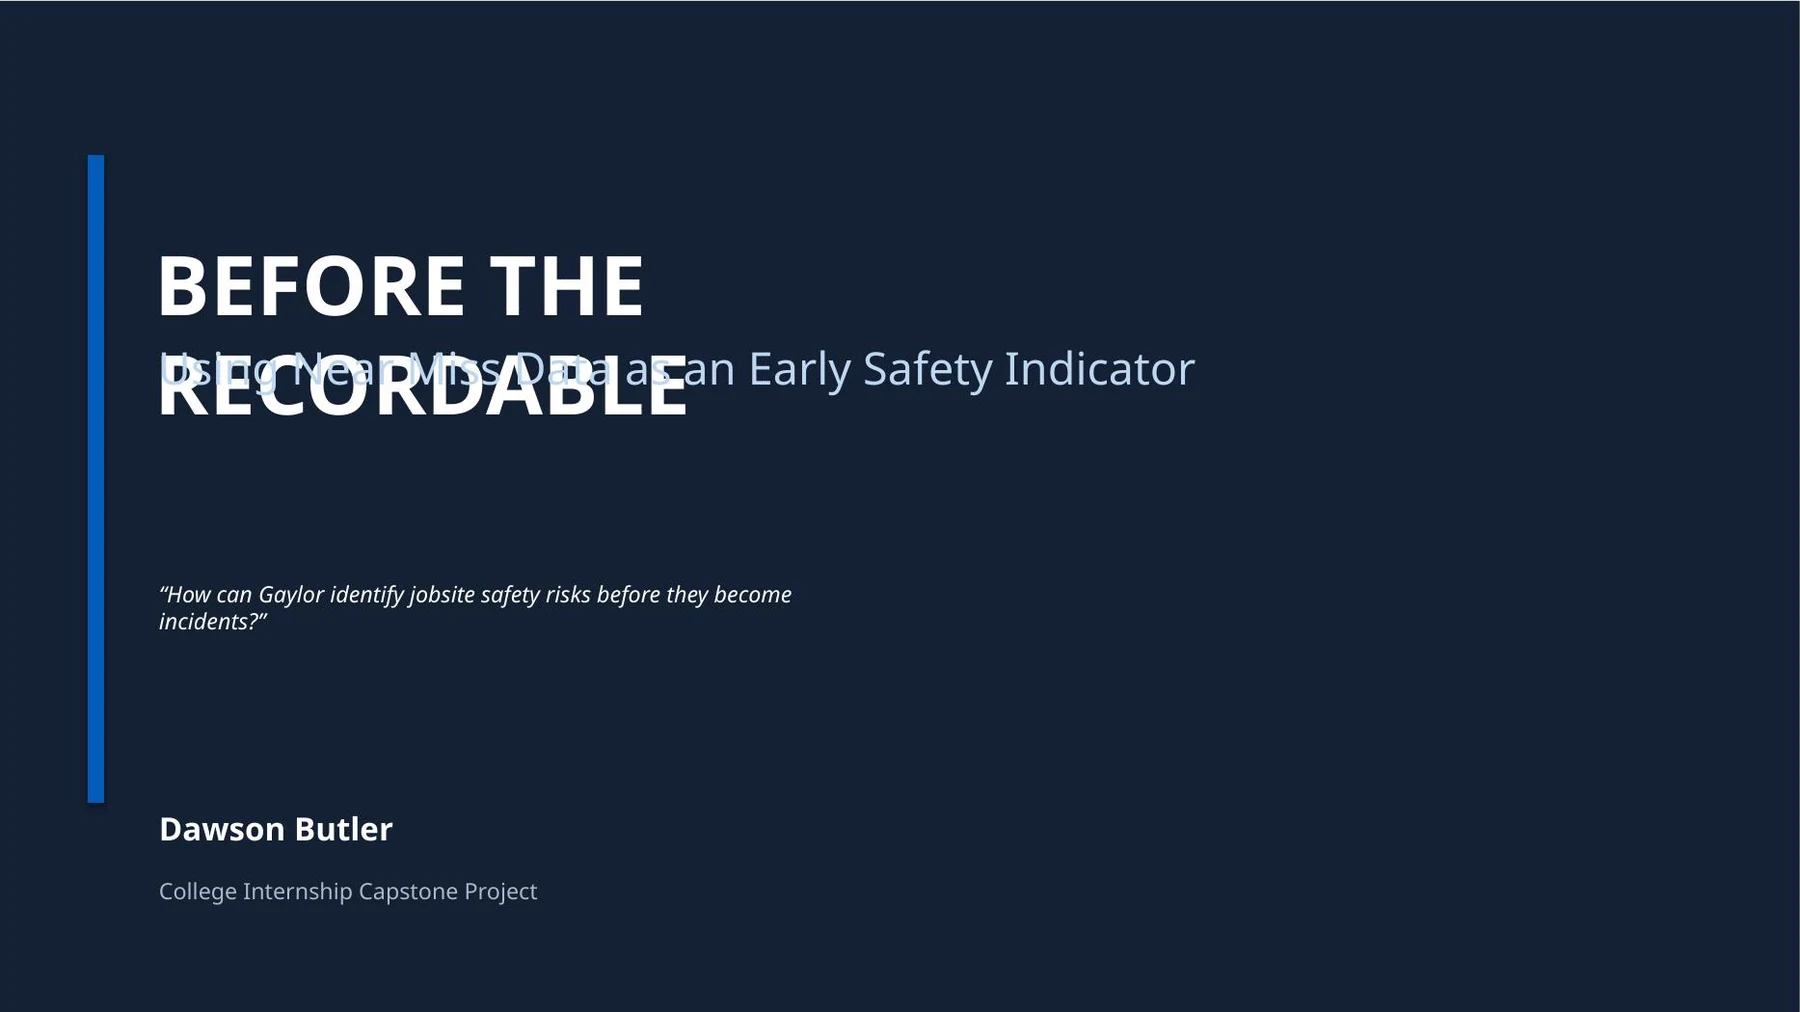
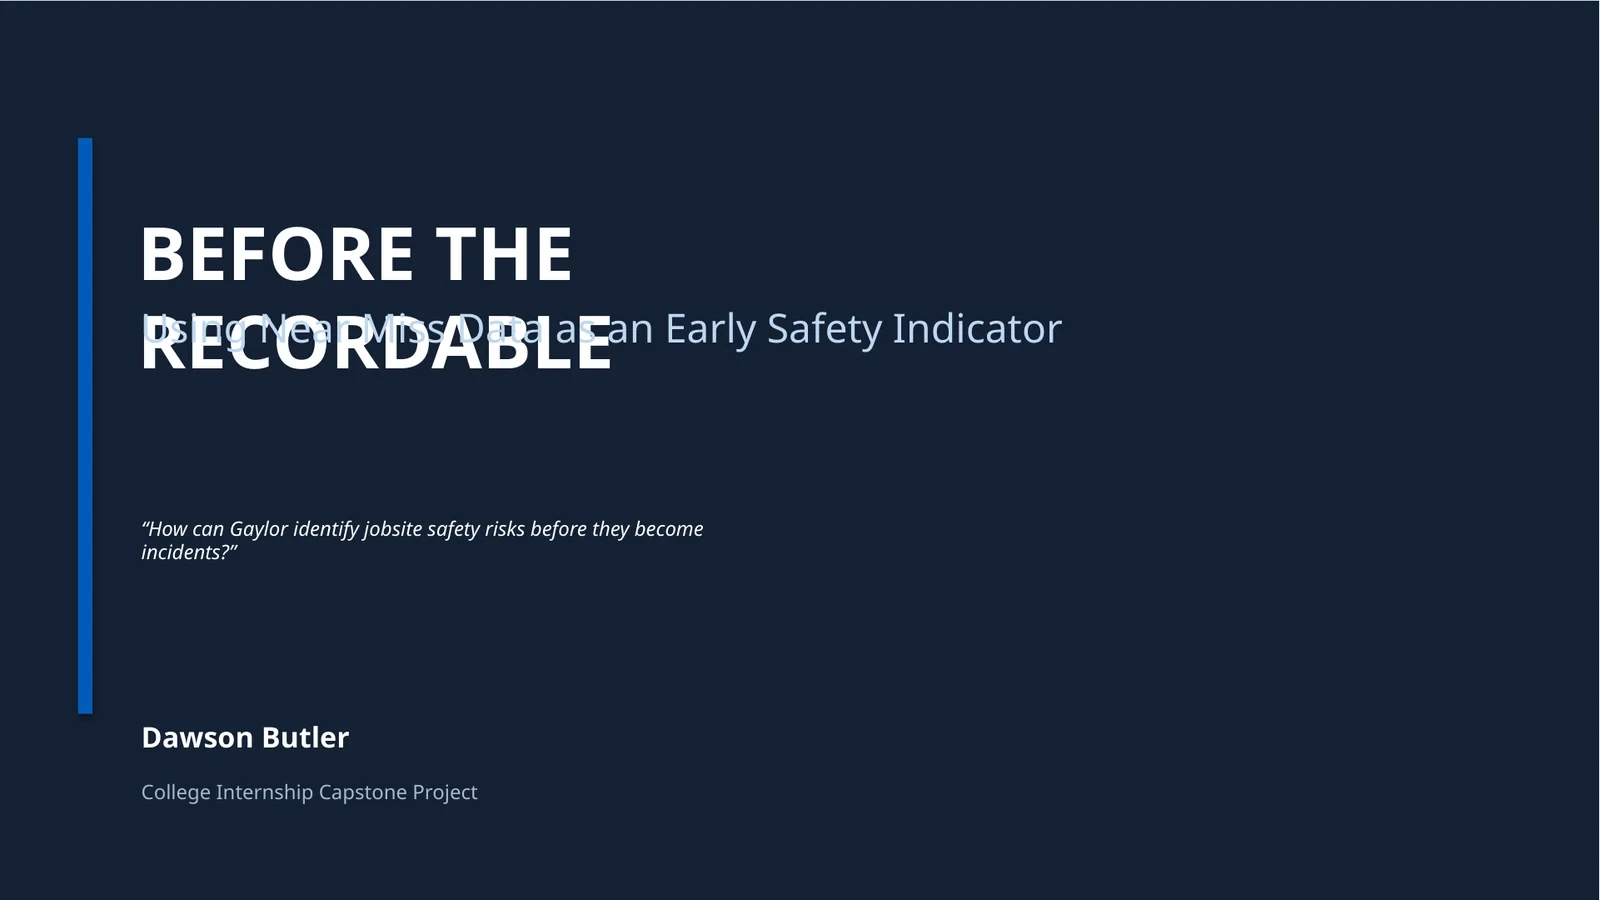
Fix project 6

diff --git a/assets/projects/assistive-robot.html b/assets/projects/assistive-robot.html
@@ -1,0 +1,6 @@
+<!doctype html><html lang="en" data-theme="dark"><head><meta charset="utf-8"><meta name="viewport" content="width=device-width,initial-scale=1"><meta name="description" content="A six-month team project combining spatial detection, audible warnings, and separation alerts to support safer walking for a visually impaired user."><meta name="theme-color" content="#07121f"><meta property="og:title" content="Assistive Navigation Robot | Dawson Butler"><meta property="og:description" content="A six-month team project combining spatial detection, audible warnings, and separation alerts to support safer walking for a visually impaired user."><meta property="og:image" content="../assets/images/social-preview.webp"><title>Assistive Navigation Robot | Dawson Butler</title><link rel="icon" href="../favicon.svg" type="image/svg+xml"><link rel="stylesheet" href="../styles.css"></head><body><a class="skip-link" href="#main">Skip to content</a><header class="site-header"><div class="nav-wrap"><a class="brand" href="../index.html"><span class="brand-mark">DB</span><span>Dawson Butler</span></a><nav class="nav-links" aria-label="Primary"><a href="../index.html#about">About</a><a href="../index.html#projects">Projects</a><a href="../index.html#experience">Experience</a><a href="../index.html#skills">Skills</a><a href="../index.html#contact">Contact</a><a href="../assets/documents/Dawson Butler Resume.pdf" target="_blank">Resume</a></nav><div class="nav-actions"><button class="icon-btn" data-theme-toggle aria-label="Toggle color theme">☀</button><button class="menu-btn" data-menu aria-label="Open navigation" aria-expanded="false">☰</button></div></div></header><main id="main"><section class="project-hero"><div class="project-hero-copy reveal"><a class="breadcrumb" href="../index.html#projects">← All projects</a><div class="kicker">03 • ROBOTICS • MATLAB • ASSISTIVE DESIGN</div><h1>Assistive Navigation Robot</h1><p>A six-month team project combining spatial detection, audible warnings, and separation alerts to support safer walking for a visually impaired user.</p><div class="project-meta"><div><span>CONTEXT</span><strong>University Coding Course</strong></div><div><span>TIMELINE</span><strong>Six-month design cycle</strong></div><div><span>COLLABORATION</span><strong>Team of five</strong></div></div></div><div class="project-hero-media reveal"><img src="../assets/images/assistive-robot.webp" alt="Tracked classroom robot with sensors, microcontrollers, servos, wiring, and 3D printed components."></div></section>
+<section class="case-intro section"><div class="case-column reveal"><div class="eyebrow">THE CHALLENGE</div><h2>Create an affordable assistive device that could help a visually impaired person recognize nearby obstacles and alert a trusted contact if the user became separated from the robot. The project required our team to integrate code, sensors, electronics, mechanical assembly, and a simple user interaction into one working prototype.</h2></div><div class="case-column reveal"><div class="eyebrow">MY ROLE</div><p>I worked on a five-person team through a full six-month design and build cycle. My responsibilities included assembly, component integration, MATLAB development, troubleshooting, test planning, and helping translate the accessibility concept into a functioning prototype.</p><div class="tool-pills"><span>MATLAB</span><span>Sensor integration</span><span>COTS hardware</span><span>Mechanical assembly</span><span>Rapid prototyping</span></div></div></section>
+<section class="process-section section-wide"><div class="section-heading reveal"><div class="eyebrow">ENGINEERING PROCESS</div><h2>How the work moved from problem to functioning result.</h2></div><div class="process-list"><div class="process-step"><span>01</span><div><h3>Define the user need</h3><p>We chose an assistive walking concept rather than a general demonstration robot, which gave every design decision a clear purpose.</p></div></div><div class="process-step"><span>02</span><div><h3>Integrate sensing and feedback</h3><p>The robot used spatial detection to identify nearby obstacles and produce an audible warning as the user approached them.</p></div></div><div class="process-step"><span>03</span><div><h3>Add separation monitoring</h3><p>A tether or “leash” provided another safety layer. If the connection pulled away, the system initiated a message to a designated contact.</p></div></div><div class="process-step"><span>04</span><div><h3>Test and refine</h3><p>We repeatedly adjusted code, wiring, sensor behavior, and the physical layout until the hardware and software behaved as one system.</p></div></div></div></section>
+<section class="results-section section"><div class="result-card reveal"><div class="eyebrow">OUTCOME</div><h2>The prototype completed the required functions, and our team earned an A on the final project. More importantly, it showed me how mechanical systems, sensors, and software must be designed together around the person using them.</h2></div><div class="learning-card reveal"><div class="eyebrow">WHAT I LEARNED</div><p>This was my steepest coding learning curve. I did not begin the project as a confident programmer, but six months of MATLAB development and hardware troubleshooting made me much more comfortable learning unfamiliar technical tools and contributing across disciplines.</p></div></section>
+<section class="gallery-section section-wide"><div class="section-heading reveal"><div class="eyebrow">PROJECT EVIDENCE</div><h2>Hardware, models, fabrication, and system views.</h2></div><div class="project-gallery"><figure class="gallery-item"><img src="../assets/images/assistive-robot.webp" alt="Final prototype showing the compact tracked platform, control electronics, sensors, wiring, and 3D printed mounting components." loading="lazy"><figcaption>Final prototype showing the compact tracked platform, control electronics, sensors, wiring, and 3D printed mounting components.</figcaption></figure></div></section>
+<section class="next-project section"><a href="lavo-prototype.html"><span>NEXT CASE STUDY</span><strong>Continue exploring ↗</strong></a></section></main><footer><span>© <span data-year></span> Dawson Butler</span><span>Mechanical Engineering • Robotics • VDC • Manufacturing</span></footer><script src="../script.js"></script></body></html>

diff --git a/assets/projects/lavo-prototype.html b/assets/projects/lavo-prototype.html
@@ -1,0 +1,6 @@
+<!doctype html><html lang="en" data-theme="dark"><head><meta charset="utf-8"><meta name="viewport" content="width=device-width,initial-scale=1"><meta name="description" content="Hands-on research, testing, and prototype iteration on a pressure-washing robot that became my introduction to engineering product development."><meta name="theme-color" content="#07121f"><meta property="og:title" content="Lavo Bot Prototype Development | Dawson Butler"><meta property="og:description" content="Hands-on research, testing, and prototype iteration on a pressure-washing robot that became my introduction to engineering product development."><meta property="og:image" content="../assets/images/social-preview.webp"><title>Lavo Bot Prototype Development | Dawson Butler</title><link rel="icon" href="../favicon.svg" type="image/svg+xml"><link rel="stylesheet" href="../styles.css"></head><body><a class="skip-link" href="#main">Skip to content</a><header class="site-header"><div class="nav-wrap"><a class="brand" href="../index.html"><span class="brand-mark">DB</span><span>Dawson Butler</span></a><nav class="nav-links" aria-label="Primary"><a href="../index.html#about">About</a><a href="../index.html#projects">Projects</a><a href="../index.html#experience">Experience</a><a href="../index.html#skills">Skills</a><a href="../index.html#contact">Contact</a><a href="../assets/documents/Dawson Butler Resume.pdf" target="_blank">Resume</a></nav><div class="nav-actions"><button class="icon-btn" data-theme-toggle aria-label="Toggle color theme">☀</button><button class="menu-btn" data-menu aria-label="Open navigation" aria-expanded="false">☰</button></div></div></header><main id="main"><section class="project-hero"><div class="project-hero-copy reveal"><a class="breadcrumb" href="../index.html#projects">← All projects</a><div class="kicker">04 • PROTOTYPING • TESTING • PRODUCT DEVELOPMENT</div><h1>Lavo Bot Prototype Development</h1><p>Hands-on research, testing, and prototype iteration on a pressure-washing robot that became my introduction to engineering product development.</p><div class="project-meta"><div><span>CONTEXT</span><strong>LUCID Bots</strong></div><div><span>TIMELINE</span><strong>Early engineering experience</strong></div><div><span>COLLABORATION</span><strong>Direct collaboration with company leadership and engineers</strong></div></div></div><div class="project-hero-media reveal"><img src="../assets/images/lavo-prototype.webp" alt="Opened Lavo Bot prototype showing surface cleaner, frame, motors, wiring, controls, and mechanical components."></div></section>
+<section class="case-intro section"><div class="case-column reveal"><div class="eyebrow">THE CHALLENGE</div><h2>Help turn an ambitious pressure-washing robot concept into a more capable, testable product through hands-on prototype work, research, and repeated mechanical and system-level iteration.</h2></div><div class="case-column reveal"><div class="eyebrow">MY ROLE</div><p>I supported testing, assembly, troubleshooting, research, and design exploration while working closely with the CEO and engineering team on a high-priority prototype. Because the project was personally important to company leadership, I was fortunate to see the intensity and persistence required to develop a product from an early idea.</p><div class="tool-pills"><span>Prototype assembly</span><span>Mechanical testing</span><span>Research and design</span><span>Troubleshooting</span><span>Electromechanical systems</span></div><div class="source-note"><span>PRODUCT REFERENCE</span><a href="https://lucidbots.com/lavo" target="_blank" rel="noopener">Official product page ↗</a></div></div></section>
+<section class="process-section section-wide"><div class="section-heading reveal"><div class="eyebrow">ENGINEERING PROCESS</div><h2>How the work moved from problem to functioning result.</h2></div><div class="process-list"><div class="process-step"><span>01</span><div><h3>Understand the system</h3><p>Opening the machine and tracing its mechanisms, wiring, drive components, cleaning hardware, and controls taught me to think in complete systems.</p></div></div><div class="process-step"><span>02</span><div><h3>Build and test</h3><p>I participated in hands-on assembly and testing rather than observing from the sidelines.</p></div></div><div class="process-step"><span>03</span><div><h3>Research alternatives</h3><p>We considered component choices, layouts, operating behavior, maintenance, and practical user needs while the concept evolved.</p></div></div><div class="process-step"><span>04</span><div><h3>Iterate from evidence</h3><p>Prototype failures and test results were treated as information that guided the next change.</p></div></div></div></section>
+<section class="results-section section"><div class="result-card reveal"><div class="eyebrow">OUTCOME</div><h2>The Lavo Bot project was my introduction to real engineering development and the experience that got me hooked. It showed me that engineering is not one perfect idea—it is a cycle of building, testing, learning, and improving.</h2></div><div class="learning-card reveal"><div class="eyebrow">WHAT I LEARNED</div><p>Working close to a passionate product leader showed me how much ownership matters. The best prototypes improve quickly when the team is willing to inspect failures honestly, change direction, and keep testing.</p></div></section>
+<section class="gallery-section section-wide"><div class="section-heading reveal"><div class="eyebrow">PROJECT EVIDENCE</div><h2>Hardware, models, fabrication, and system views.</h2></div><div class="project-gallery"><figure class="gallery-item"><img src="../assets/images/lavo-prototype.webp" alt="Opened prototype showing the large cleaning assembly, frame, wiring, drive hardware, and controls used during development work." loading="lazy"><figcaption>Opened prototype showing the large cleaning assembly, frame, wiring, drive hardware, and controls used during development work.</figcaption></figure></div></section>
+<section class="next-project section"><a href="trading-system.html"><span>NEXT CASE STUDY</span><strong>Continue exploring ↗</strong></a></section></main><footer><span>© <span data-year></span> Dawson Butler</span><span>Mechanical Engineering • Robotics • VDC • Manufacturing</span></footer><script src="../script.js"></script></body></html>

diff --git a/assets/projects/modular-skid.html b/assets/projects/modular-skid.html
@@ -1,0 +1,6 @@
+<!doctype html><html lang="en" data-theme="dark"><head><meta charset="utf-8"><meta name="viewport" content="width=device-width,initial-scale=1"><meta name="description" content="A fast Revit ramp-up on a multi-hundred-million-dollar data center project, carrying modular skid work from submittal and modeling through fabrication and a field lift."><meta name="theme-color" content="#07121f"><meta property="og:title" content="Modular Electrical Skid: Model to Field | Dawson Butler"><meta property="og:description" content="A fast Revit ramp-up on a multi-hundred-million-dollar data center project, carrying modular skid work from submittal and modeling through fabrication and a field lift."><meta property="og:image" content="../assets/images/social-preview.webp"><title>Modular Electrical Skid: Model to Field | Dawson Butler</title><link rel="icon" href="../favicon.svg" type="image/svg+xml"><link rel="stylesheet" href="../styles.css"></head><body><a class="skip-link" href="#main">Skip to content</a><header class="site-header"><div class="nav-wrap"><a class="brand" href="../index.html"><span class="brand-mark">DB</span><span>Dawson Butler</span></a><nav class="nav-links" aria-label="Primary"><a href="../index.html#about">About</a><a href="../index.html#projects">Projects</a><a href="../index.html#experience">Experience</a><a href="../index.html#skills">Skills</a><a href="../index.html#contact">Contact</a><a href="../assets/documents/Dawson Butler Resume.pdf" target="_blank">Resume</a></nav><div class="nav-actions"><button class="icon-btn" data-theme-toggle aria-label="Toggle color theme">☀</button><button class="menu-btn" data-menu aria-label="Open navigation" aria-expanded="false">☰</button></div></div></header><main id="main"><section class="project-hero"><div class="project-hero-copy reveal"><a class="breadcrumb" href="../index.html#projects">← All projects</a><div class="kicker">02 • REVIT • VDC • CONSTRUCTABILITY • FIELD ENGINEERING</div><h1>Modular Electrical Skid: Model to Field</h1><p>A fast Revit ramp-up on a multi-hundred-million-dollar data center project, carrying modular skid work from submittal and modeling through fabrication and a field lift.</p><div class="project-meta"><div><span>CONTEXT</span><strong>Gaylor Electric</strong></div><div><span>TIMELINE</span><strong>Summer 2026</strong></div><div><span>COLLABORATION</span><strong>VDC, prefab, engineering, and field teams</strong></div></div></div><div class="project-hero-media reveal"><img src="../assets/images/skid-model.webp" alt="Three-dimensional Revit coordination model of a modular electrical skid with structure, equipment, and routed systems."></div></section>
+<section class="case-intro section"><div class="case-column reveal"><div class="eyebrow">THE CHALLENGE</div><h2>Rapidly become productive in professional Revit and VDC workflows while supporting modular electrical skids on a multi-hundred-million-dollar data center project. The design had to move cleanly from submittal information to coordinated model content, published sheets, fabrication, and field installation.</h2></div><div class="case-column reveal"><div class="eyebrow">MY ROLE</div><p>I created and revised skid-related model content, interpreted project prints and submittals, checked dimensions and constructability, supported drawing production, and used Revit, Inventor, AutoCAD, Bluebeam Revu, Autodesk Construction Cloud, and Evolve throughout the workflow. I also supported the calculations and planning associated with lifting the completed assembly.</p><div class="tool-pills"><span>Autodesk Revit</span><span>Inventor</span><span>AutoCAD</span><span>Bluebeam Revu</span><span>Autodesk Construction Cloud</span><span>Evolve</span></div></div></section>
+<section class="process-section section-wide"><div class="section-heading reveal"><div class="eyebrow">ENGINEERING PROCESS</div><h2>How the work moved from problem to functioning result.</h2></div><div class="process-list"><div class="process-step"><span>01</span><div><h3>Translate source information</h3><p>I converted 2D prints, AutoCAD details, equipment information, and existing plans into coordinated 3D content.</p></div></div><div class="process-step"><span>02</span><div><h3>Design for fabrication</h3><p>The model had to represent how the frame, equipment, mounting conditions, and routed systems would actually be assembled in the prefab environment.</p></div></div><div class="process-step"><span>03</span><div><h3>Document and coordinate</h3><p>I supported the path from submittal review to published sheets while checking dimensions, installation details, and potential conflicts before field work.</p></div></div><div class="process-step"><span>04</span><div><h3>Connect calculations to execution</h3><p>The project became real when I watched a skid influenced by my modeling and calculations being lifted roughly 50 feet into position on the jobsite.</p></div></div></div></section>
+<section class="results-section section"><div class="result-card reveal"><div class="eyebrow">OUTCOME</div><h2>This project compressed a major learning curve into one internship. I went from learning company Revit standards to contributing on a high-value project and then seeing coordinated digital work become a fabricated and installed assembly.</h2></div><div class="learning-card reveal"><div class="eyebrow">WHAT I LEARNED</div><p>The most rewarding part of VDC is the closed loop between model, shop, and field. A clean model is not the finish line—the real test is whether the information supports safe fabrication, predictable installation, and confident field execution.</p></div></section>
+<section class="gallery-section section-wide"><div class="section-heading reveal"><div class="eyebrow">PROJECT EVIDENCE</div><h2>Hardware, models, fabrication, and system views.</h2></div><div class="project-gallery"><figure class="gallery-item gallery-video"><video controls muted loop playsinline preload="metadata" poster="../assets/images/skid-assembly-poster.webp"><source src="../assets/video/skid-frame-assembly.mp4" type="video/mp4"></video><figcaption>Time-lapse of the modular frame being assembled in the prefab environment.</figcaption></figure><figure class="gallery-item"><img src="../assets/images/skid-model.webp" alt="Sanitized coordination view showing the skid structure and integrated systems without client-identifying details." loading="lazy"><figcaption>Sanitized coordination view showing the skid structure and integrated systems without client-identifying details.</figcaption></figure><figure class="gallery-item"><img src="../assets/images/skid-assembly-poster.webp" alt="Frame assembly time-lapse captured during prefab production." loading="lazy"><figcaption>Frame assembly time-lapse captured during prefab production.</figcaption></figure><figure class="gallery-item"><img src="../assets/images/skid-lift.webp" alt="Completed skid suspended during field installation. Proprietary dimensions and client details are intentionally omitted." loading="lazy"><figcaption>Completed skid suspended during field installation. Proprietary dimensions and client details are intentionally omitted.</figcaption></figure></div></section>
+<section class="next-project section"><a href="assistive-robot.html"><span>NEXT CASE STUDY</span><strong>Continue exploring ↗</strong></a></section></main><footer><span>© <span data-year></span> Dawson Butler</span><span>Mechanical Engineering • Robotics • VDC • Manufacturing</span></footer><script src="../script.js"></script></body></html>

diff --git a/assets/projects/sherpa-drone.html b/assets/projects/sherpa-drone.html
@@ -1,0 +1,6 @@
+<!doctype html><html lang="en" data-theme="dark"><head><meta charset="utf-8"><meta name="viewport" content="width=device-width,initial-scale=1"><meta name="description" content="Ground-up assembly, wiring, testing, troubleshooting, and production improvement for Lucid Bots’ commercial exterior-cleaning drone."><meta name="theme-color" content="#07121f"><meta property="og:title" content="Sherpa Cleaning Drone Production | Dawson Butler"><meta property="og:description" content="Ground-up assembly, wiring, testing, troubleshooting, and production improvement for Lucid Bots’ commercial exterior-cleaning drone."><meta property="og:image" content="../assets/images/social-preview.webp"><title>Sherpa Cleaning Drone Production | Dawson Butler</title><link rel="icon" href="../favicon.svg" type="image/svg+xml"><link rel="stylesheet" href="../styles.css"></head><body><a class="skip-link" href="#main">Skip to content</a><header class="site-header"><div class="nav-wrap"><a class="brand" href="../index.html"><span class="brand-mark">DB</span><span>Dawson Butler</span></a><nav class="nav-links" aria-label="Primary"><a href="../index.html#about">About</a><a href="../index.html#projects">Projects</a><a href="../index.html#experience">Experience</a><a href="../index.html#skills">Skills</a><a href="../index.html#contact">Contact</a><a href="../assets/documents/Dawson Butler Resume.pdf" target="_blank">Resume</a></nav><div class="nav-actions"><button class="icon-btn" data-theme-toggle aria-label="Toggle color theme">☀</button><button class="menu-btn" data-menu aria-label="Open navigation" aria-expanded="false">☰</button></div></div></header><main id="main"><section class="project-hero"><div class="project-hero-copy reveal"><a class="breadcrumb" href="../index.html#projects">← All projects</a><div class="kicker">01 • ROBOTICS • MANUFACTURING • ELECTROMECHANICAL</div><h1>Sherpa Cleaning Drone Production</h1><p>Ground-up assembly, wiring, testing, troubleshooting, and production improvement for Lucid Bots’ commercial exterior-cleaning drone.</p><div class="project-meta"><div><span>CONTEXT</span><strong>LUCID Bots</strong></div><div><span>TIMELINE</span><strong>2025–2026</strong></div><div><span>COLLABORATION</span><strong>Cross-functional production team</strong></div></div></div><div class="project-hero-media reveal"><img src="../assets/images/sherpa-drone.webp" alt="Open Sherpa cleaning drone showing frame, arms, wiring, power electronics, circuit boards, and 3D printed parts."></div></section>
+<section class="case-intro section"><div class="case-column reveal"><div class="eyebrow">THE CHALLENGE</div><h2>Build reliable commercial cleaning drones during a high-demand production period while maintaining quality across mechanical assembly, power systems, wiring, controls, printed components, and final testing.</h2></div><div class="case-column reveal"><div class="eyebrow">MY ROLE</div><p>I worked with the production team from the ground up on complete drone builds. That included arm and frame assembly, wiring, component installation, fit-up corrections, testing, troubleshooting, and communicating recurring issues back to engineers and team leads.</p><div class="tool-pills"><span>Electromechanical assembly</span><span>Wiring</span><span>System testing</span><span>Troubleshooting</span><span>3D printing</span><span>Hand and power tools</span></div><div class="source-note"><span>PRODUCT REFERENCE</span><a href="https://www.lucidbots.com/sherpa-drone" target="_blank" rel="noopener">Official product page ↗</a></div></div></section>
+<section class="process-section section-wide"><div class="section-heading reveal"><div class="eyebrow">ENGINEERING PROCESS</div><h2>How the work moved from problem to functioning result.</h2></div><div class="process-list"><div class="process-step"><span>01</span><div><h3>Build complete systems</h3><p>Rather than focusing on one repetitive subassembly, I learned the full product and moved across arms, frame hardware, electronics, wiring, and final integration.</p></div></div><div class="process-step"><span>02</span><div><h3>Use in-house manufacturing</h3><p>The vertically integrated environment included extensive in-house 3D printing, giving me practical experience with print quality, part fit, iteration, and the relationship between CAD geometry and assembly.</p></div></div><div class="process-step"><span>03</span><div><h3>Troubleshoot at the source</h3><p>When a component did not fit or a system did not behave correctly, I traced the problem through the mechanical and electrical interfaces instead of treating it as an isolated defect.</p></div></div><div class="process-step"><span>04</span><div><h3>Improve production flow</h3><p>Our team recovered a major production backlog and, during the busy season, eventually reached a pace that temporarily outstripped sales demand and created finished inventory.</p></div></div></div></section>
+<section class="results-section section"><div class="result-card reveal"><div class="eyebrow">OUTCOME</div><h2>The experience taught me how a real robotics product moves from components to a tested machine. I gained confidence working across mechanical and electrical systems while helping a small manufacturing team improve throughput without losing sight of quality.</h2></div><div class="learning-card reveal"><div class="eyebrow">WHAT I LEARNED</div><p>A well-designed product is only successful when it can be assembled consistently. The strongest engineering improvements often came from technicians noticing recurring fit, routing, access, or quality problems and communicating them clearly.</p></div></section>
+<section class="gallery-section section-wide"><div class="section-heading reveal"><div class="eyebrow">PROJECT EVIDENCE</div><h2>Hardware, models, fabrication, and system views.</h2></div><div class="project-gallery"><figure class="gallery-item"><img src="../assets/images/sherpa-drone.webp" alt="An open Sherpa drone during production, showing the density of mechanical, electrical, and printed subsystems integrated into the final platform." loading="lazy"><figcaption>An open Sherpa drone during production, showing the density of mechanical, electrical, and printed subsystems integrated into the final platform.</figcaption></figure></div></section>
+<section class="next-project section"><a href="modular-skid.html"><span>NEXT CASE STUDY</span><strong>Continue exploring ↗</strong></a></section></main><footer><span>© <span data-year></span> Dawson Butler</span><span>Mechanical Engineering • Robotics • VDC • Manufacturing</span></footer><script src="../script.js"></script></body></html>

diff --git a/assets/projects/trading-system.html b/assets/projects/trading-system.html
@@ -1,0 +1,6 @@
+<!doctype html><html lang="en" data-theme="dark"><head><meta charset="utf-8"><meta name="viewport" content="width=device-width,initial-scale=1"><meta name="description" content="A self-directed paper-trading platform built to test AI-assisted decision logic, risk controls, scanning, portfolio rotation, backtesting, and live monitoring."><meta name="theme-color" content="#07121f"><meta property="og:title" content="AI Trading Decision System | Dawson Butler"><meta property="og:description" content="A self-directed paper-trading platform built to test AI-assisted decision logic, risk controls, scanning, portfolio rotation, backtesting, and live monitoring."><meta property="og:image" content="../assets/images/social-preview.webp"><title>AI Trading Decision System | Dawson Butler</title><link rel="icon" href="../favicon.svg" type="image/svg+xml"><link rel="stylesheet" href="../styles.css"></head><body><a class="skip-link" href="#main">Skip to content</a><header class="site-header"><div class="nav-wrap"><a class="brand" href="../index.html"><span class="brand-mark">DB</span><span>Dawson Butler</span></a><nav class="nav-links" aria-label="Primary"><a href="../index.html#about">About</a><a href="../index.html#projects">Projects</a><a href="../index.html#experience">Experience</a><a href="../index.html#skills">Skills</a><a href="../index.html#contact">Contact</a><a href="../assets/documents/Dawson Butler Resume.pdf" target="_blank">Resume</a></nav><div class="nav-actions"><button class="icon-btn" data-theme-toggle aria-label="Toggle color theme">☀</button><button class="menu-btn" data-menu aria-label="Open navigation" aria-expanded="false">☰</button></div></div></header><main id="main"><section class="project-hero"><div class="project-hero-copy reveal"><a class="breadcrumb" href="../index.html#projects">← All projects</a><div class="kicker">05 • PYTHON • APIs • AUTOMATION • SYSTEMS THINKING</div><h1>AI Trading Decision System</h1><p>A self-directed paper-trading platform built to test AI-assisted decision logic, risk controls, scanning, portfolio rotation, backtesting, and live monitoring.</p><div class="project-meta"><div><span>CONTEXT</span><strong>Independent Project</strong></div><div><span>TIMELINE</span><strong>2026–present</strong></div><div><span>COLLABORATION</span><strong>Self-directed with AI-assisted development</strong></div></div></div><div class="project-hero-media reveal"><img src="../assets/images/trading-dashboard.webp" alt="Dark mission-control dashboard concept for a Python paper-trading system."></div></section>
+<section class="case-intro section"><div class="case-column reveal"><div class="eyebrow">THE CHALLENGE</div><h2>Explore how far I could push AI-assisted development by creating a system that evaluates a large stock universe, converts market data into structured decisions, manages risk, executes simulated orders, and explains what it is doing.</h2></div><div class="case-column reveal"><div class="eyebrow">MY ROLE</div><p>I defined the system requirements, tested the logic, reviewed failures, organized modules, and iterated on the scanner, risk manager, rotation engine, execution workflow, logging, dashboard, and replay tests. The project was built in my free time to learn coding, APIs, automation, and quantitative decision systems.</p><div class="tool-pills"><span>Python</span><span>Alpaca API</span><span>Market data APIs</span><span>Automation</span><span>Backtesting</span><span>Risk controls</span><span>Dashboard design</span></div></div></section>
+<section class="process-section section-wide"><div class="section-heading reveal"><div class="eyebrow">ENGINEERING PROCESS</div><h2>How the work moved from problem to functioning result.</h2></div><div class="process-list"><div class="process-step"><span>01</span><div><h3>Design the architecture</h3><p>The system separates market data, feature generation, regime detection, scoring, risk management, portfolio rotation, execution, and logging so each part can be tested and improved.</p></div></div><div class="process-step"><span>02</span><div><h3>Build a repeatable loop</h3><p>Every cycle checks system health, reads current data, evaluates the market regime, scores candidates, reviews positions, applies risk rules, and records the outcome.</p></div></div><div class="process-step"><span>03</span><div><h3>Test before trusting</h3><p>Paper trading and historical replay testing expose weaknesses without risking real capital.</p></div></div><div class="process-step"><span>04</span><div><h3>Improve transparency</h3><p>Mission Control summarizes system status, decisions, errors, blocked trades, position changes, and performance instead of hiding the process behind a single output.</p></div></div></div></section>
+<section class="results-section section"><div class="result-card reveal"><div class="eyebrow">OUTCOME</div><h2>The project dramatically expanded my comfort with Python, APIs, debugging, data structures, automation, and system reliability. It also taught me that a sophisticated dashboard is less important than disciplined testing and clear risk controls.</h2></div><div class="learning-card reveal"><div class="eyebrow">WHAT I LEARNED</div><p>AI can accelerate development, but it does not replace engineering judgment. I still have to define requirements, detect incorrect assumptions, compare results, manage edge cases, and decide whether the system is behaving logically.</p><div class="confidential-note"><strong>Project note:</strong> This is a paper-trading and software-learning project. All displayed trades and performance are simulated or representative and are not financial advice.</div></div></section>
+<section class="gallery-section section-wide"><div class="section-heading reveal"><div class="eyebrow">PROJECT EVIDENCE</div><h2>Hardware, models, fabrication, and system views.</h2></div><div class="project-gallery"><figure class="gallery-item"><img src="../assets/images/trading-dashboard.webp" alt="Mission Control interface concept for monitoring paper-trading status, candidates, positions, and activity." loading="lazy"><figcaption>Mission Control interface concept for monitoring paper-trading status, candidates, positions, and activity.</figcaption></figure><figure class="gallery-item"><img src="../assets/images/trading-architecture.webp" alt="System architecture showing data flow, decision modules, execution, feedback, and monitoring." loading="lazy"><figcaption>System architecture showing data flow, decision modules, execution, feedback, and monitoring.</figcaption></figure><figure class="gallery-item"><img src="../assets/images/trading-flow.webp" alt="Five-minute trading loop from health checks through scoring, risk control, execution, logging, and end-of-day close." loading="lazy"><figcaption>Five-minute trading loop from health checks through scoring, risk control, execution, logging, and end-of-day close.</figcaption></figure><figure class="gallery-item"><img src="../assets/images/trading-code.webp" alt="Representative code views for scoring, position sizing, and portfolio rotation logic." loading="lazy"><figcaption>Representative code views for scoring, position sizing, and portfolio rotation logic.</figcaption></figure><figure class="gallery-item"><img src="../assets/images/trading-performance.webp" alt="Sample backtest visualization used to review win rate, drawdown, distribution, and equity behavior. Simulated results only." loading="lazy"><figcaption>Sample backtest visualization used to review win rate, drawdown, distribution, and equity behavior. Simulated results only.</figcaption></figure></div></section>
+<section class="next-project section"><a href="safety-platform.html"><span>NEXT CASE STUDY</span><strong>Continue exploring ↗</strong></a></section></main><footer><span>© <span data-year></span> Dawson Butler</span><span>Mechanical Engineering • Robotics • VDC • Manufacturing</span></footer><script src="../script.js"></script></body></html>

diff --git a/assets/404.html b/assets/404.html
@@ -1,0 +1,1 @@
+<!doctype html><html lang="en" data-theme="dark"><head><meta charset="utf-8"><meta name="viewport" content="width=device-width,initial-scale=1"><meta name="description" content="The requested portfolio page could not be found."><meta name="theme-color" content="#07121f"><meta property="og:title" content="Page not found | Dawson Butler"><meta property="og:description" content="The requested portfolio page could not be found."><meta property="og:image" content="assets/images/social-preview.webp"><title>Page not found | Dawson Butler</title><link rel="icon" href="favicon.svg" type="image/svg+xml"><link rel="stylesheet" href="styles.css"></head><body><a class="skip-link" href="#main">Skip to content</a><header class="site-header"><div class="nav-wrap"><a class="brand" href="index.html"><span class="brand-mark">DB</span><span>Dawson Butler</span></a><nav class="nav-links" aria-label="Primary"><a href="index.html#about">About</a><a href="index.html#projects">Projects</a><a href="index.html#experience">Experience</a><a href="index.html#skills">Skills</a><a href="index.html#contact">Contact</a><a href="assets/documents/Dawson Butler Resume.pdf" target="_blank">Resume</a></nav><div class="nav-actions"><button class="icon-btn" data-theme-toggle aria-label="Toggle color theme">☀</button><button class="menu-btn" data-menu aria-label="Open navigation" aria-expanded="false">☰</button></div></div></header><main id="main"><section class="section" style="min-height:70vh;display:grid;place-items:center;text-align:center"><div><div class="kicker">404</div><h1 style="font-size:clamp(3rem,8vw,7rem);margin:.2em 0;letter-spacing:-.06em">That page left the drawing set.</h1><p style="color:var(--muted)">Return to the portfolio and keep exploring.</p><a class="btn primary" href="index.html">Back to home</a></div></section></main><footer><span>© <span data-year></span> Dawson Butler</span><span>Mechanical Engineering • Robotics • VDC • Manufacturing</span></footer><script src="script.js"></script></body></html>

diff --git a/assets/script.js b/assets/script.js
@@ -1,0 +1,1 @@
+const root=document.documentElement;const toggle=document.querySelector('[data-theme-toggle]');const saved=localStorage.getItem('portfolio-theme');if(saved){root.dataset.theme=saved}function icon(){if(toggle)toggle.textContent=root.dataset.theme==='light'?'☾':'☀'}icon();toggle?.addEventListener('click',()=>{root.dataset.theme=root.dataset.theme==='light'?'dark':'light';localStorage.setItem('portfolio-theme',root.dataset.theme);icon()});const menu=document.querySelector('[data-menu]');const nav=document.querySelector('.nav-links');menu?.addEventListener('click',()=>{const open=nav.classList.toggle('open');menu.setAttribute('aria-expanded',String(open))});nav?.querySelectorAll('a').forEach(a=>a.addEventListener('click',()=>{nav.classList.remove('open');menu?.setAttribute('aria-expanded','false')}));document.querySelectorAll('[data-year]').forEach(el=>el.textContent=new Date().getFullYear());const items=document.querySelectorAll('.reveal');if('IntersectionObserver'in window){const observer=new IntersectionObserver(entries=>entries.forEach(e=>{if(e.isIntersecting){e.target.classList.add('visible');observer.unobserve(e.target)}}),{threshold:.1});items.forEach(i=>observer.observe(i))}else{items.forEach(i=>i.classList.add('visible'))}